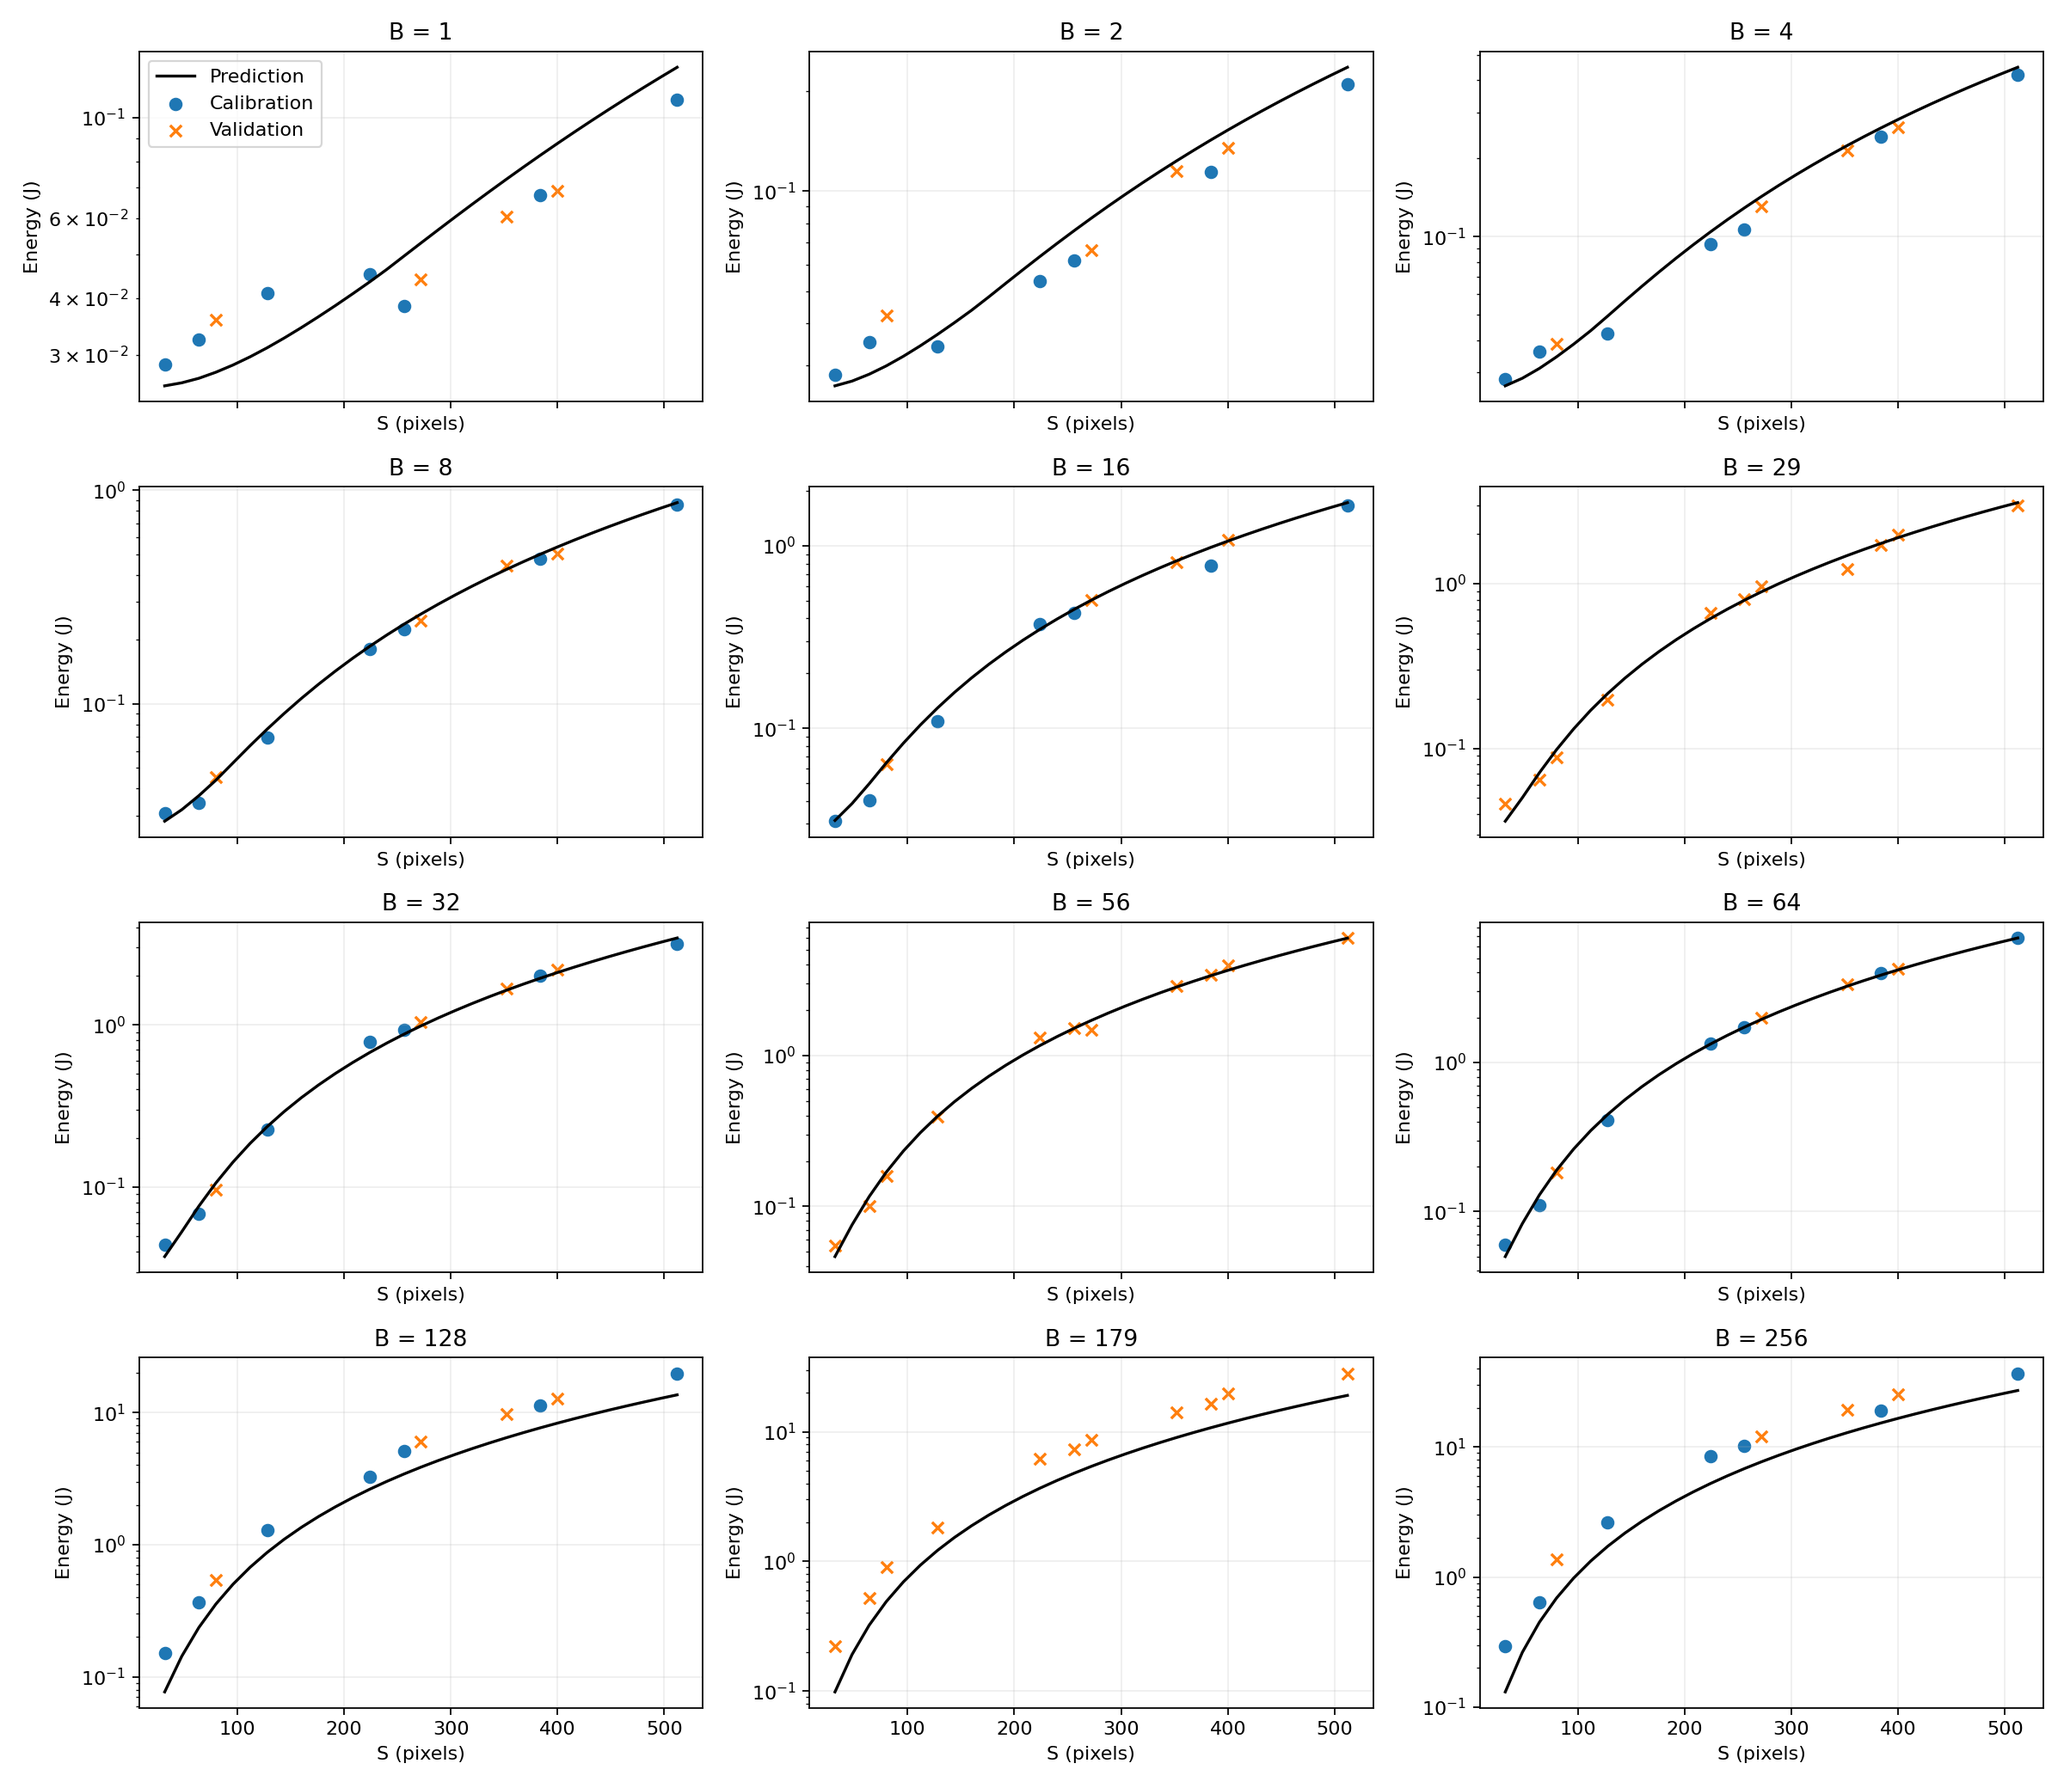
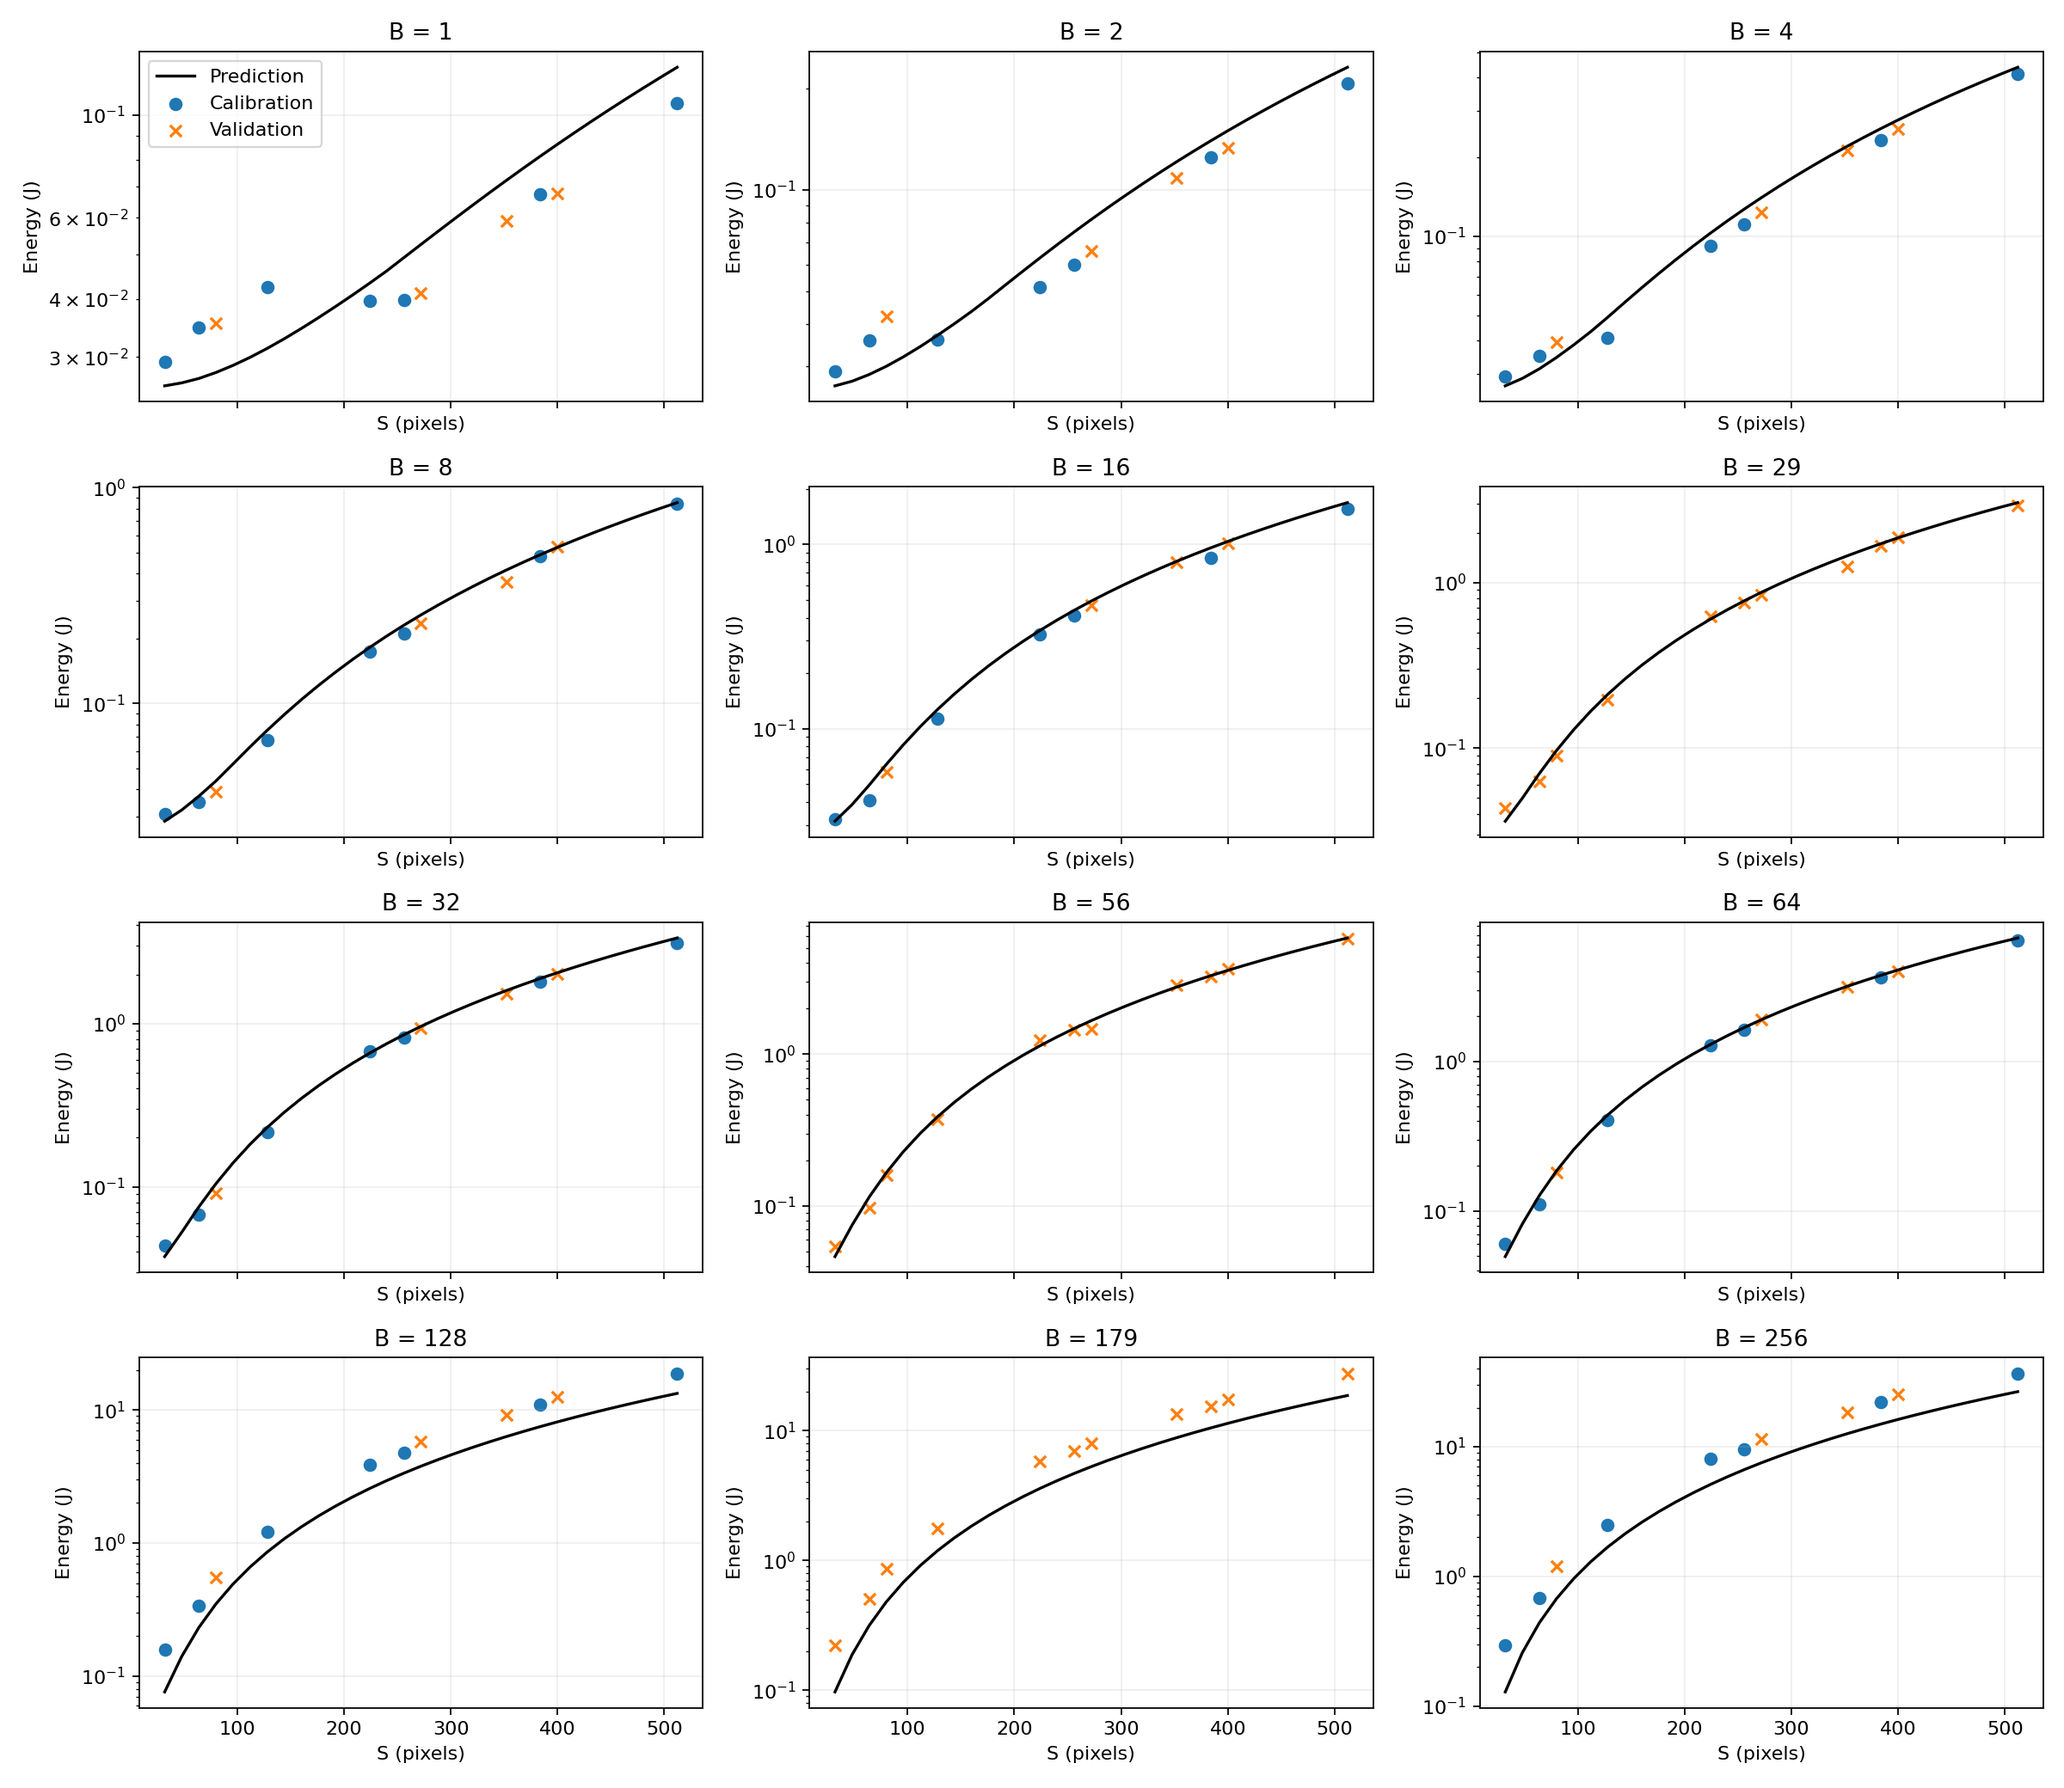
Update

diff --git a/README.md b/README.md
@@ -1,4 +1,4 @@
-# Homework 1 - Analytical performance model of a small CNN
+# Homework 1 — Analytical performance model of a small CNN
 
 ## GPU / software versions
 
@@ -24,7 +24,7 @@
 
 ## How to reproduce
 
-1. Открыть [ноутбук в Kaggle](https://www.kaggle.com/code/nikitachindin/hw1-cnn?scriptVersionId=352978501) и создать редактируемую копию.
+1. Открыть [ноутбук в Kaggle](https://www.kaggle.com/code/nikitachindin/hw1-cnn?scriptVersionId=353027889) и создать редактируемую копию.
 2. Включить GPU T4.
 3. Выбрать **Save Version -> Save & Run All** с GPU для полного запуска с нуля.
 4. Дождаться завершения и открыть **Output -> hw1 -> results**: CSV с измерениями, `theta.json` и графики в `figures/`.
@@ -35,12 +35,12 @@
 |---|---|---:|---:|---|
 | FLOPs | Калибровка | 0,000000 | 0 | FLOPs |
 | Память | Калибровка | 28,021540 | 1,431813 × 10⁸ | байт |
-| Время | Калибровка | 22,577618 | 2,114093 × 10⁻² | с |
-| Энергия | Калибровка | 15,535224 | 1,642962 | Дж |
+| Время | Калибровка | 22,672626 | 2,399124 × 10⁻² | с |
+| Энергия | Калибровка | 16,203117 | 1,863335 | Дж |
 | FLOPs | Проверка | 0,000000 | 0 | FLOPs |
 | Память | Проверка | 16,938637 | 1,132159 × 10⁸ | байт |
-| Время | Проверка | 21,720236 | 2,621870 × 10⁻² | с |
-| Энергия | Проверка | 15,731935 | 1,909197 | Дж |
+| Время | Проверка | 21,607610 | 3,031039 × 10⁻² | с |
+| Энергия | Проверка | 16,465435 | 2,219938 | Дж |
 
 ## 1-page discussion
 
@@ -48,6 +48,6 @@
 
 Для памяти MAPE составляет 28,02% на калибровке и 16,94% на проверке, RMSE на проверке - около 113 МБ. На проверочной выборке относительная ошибка ниже, однако оценка пикового потребления памяти остаётся приближённой.
 
-Для времени MAPE составляет 22,58% на калибровке и 21,72% на проверке. Для энергии - 15,54% и 15,73% соответственно. RMSE на проверке составляет 26,22 мс для времени и 1,91 Дж для энергии. Близкие значения MAPE на двух выборках показывают, что на выбранных проверочных точках относительная точность существенно не ухудшилась.
+Для времени MAPE составляет 22,67% на калибровке и 21,61% на проверке. Для энергии - 16,20% и 16,47% соответственно. RMSE на проверке составляет 30,31 мс для времени и 2,22 Дж для энергии. Близкие значения MAPE на двух выборках показывают, что на выбранных проверочных точках относительная точность существенно не ухудшилась.
 
 Думаю, ошибки связаны с упрощениями в формулах. Для памяти мы складываем все активации, хотя они не обязательно хранятся одновременно, а временные буферы вообще не считаем. Для времени берём одну производительность GPU для всех слоёв и размеров входа - возможно, из-за этого формула не везде хорошо совпадает с замерами. Энергия зависит от предсказанного времени, поэтому ошибка времени попадает и в её расчёт.
